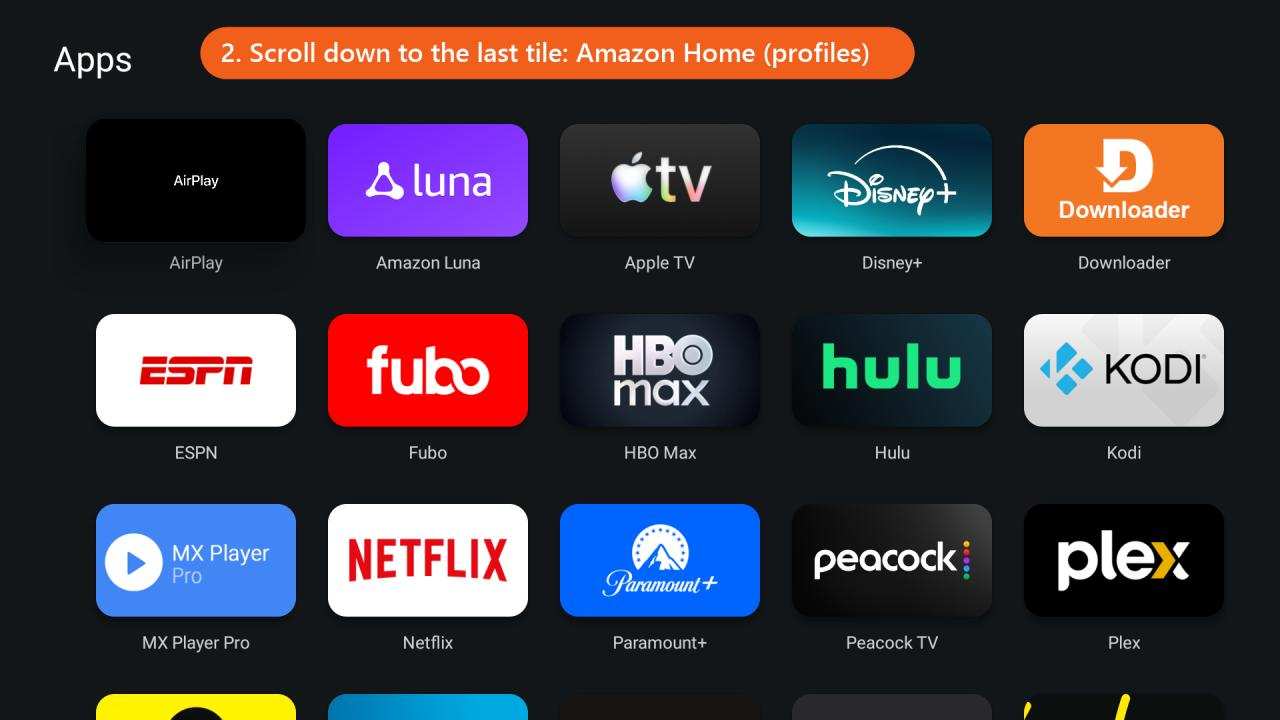
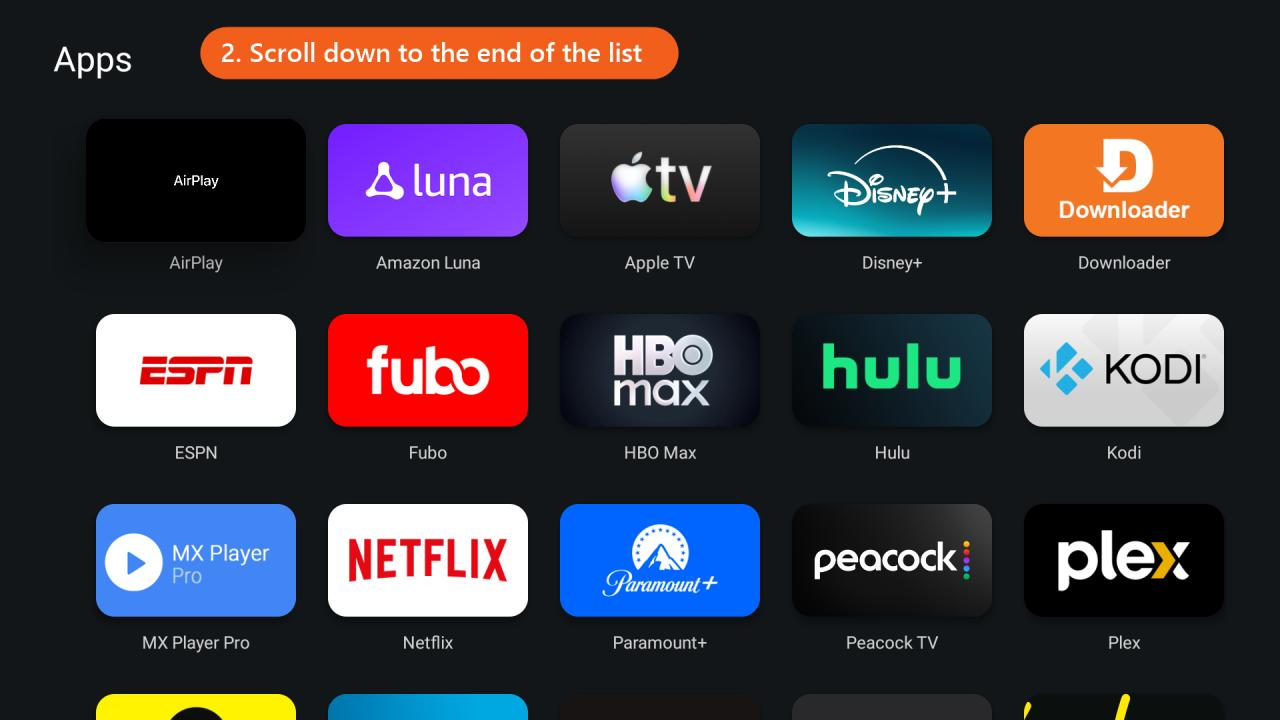
Guide: screenshot of the Amazon Home tile

Changed region(s): [[0.375, 0.0306, 0.7188, 0.1222]]

diff --git a/docs/using-isafellieos.md b/docs/using-isafellieos.md
@@ -23,9 +23,13 @@ Use this for profiles, Alexa features, Live TV, or anything else that's only on 
 
    ![Step 1: open All apps](screenshots/tv-step1-all-apps.jpg)
 
-2. Scroll down to the end of the list and choose the last tile, **Amazon Home (profiles)**.
+2. Scroll down to the end of the list.
 
    ![Step 2: scroll to the end of the apps list](screenshots/tv-step2-apps-list.jpg)
+
+3. Choose the last tile, **Amazon Home (profiles)**.
+
+   ![Step 3: choose Amazon Home (profiles)](screenshots/tv-step3-amazon-home.jpg)
 
 Amazon's home opens and stays put while you use it. As soon as you open an app, or press **Home**, you're back on IsafellieOS.
 
